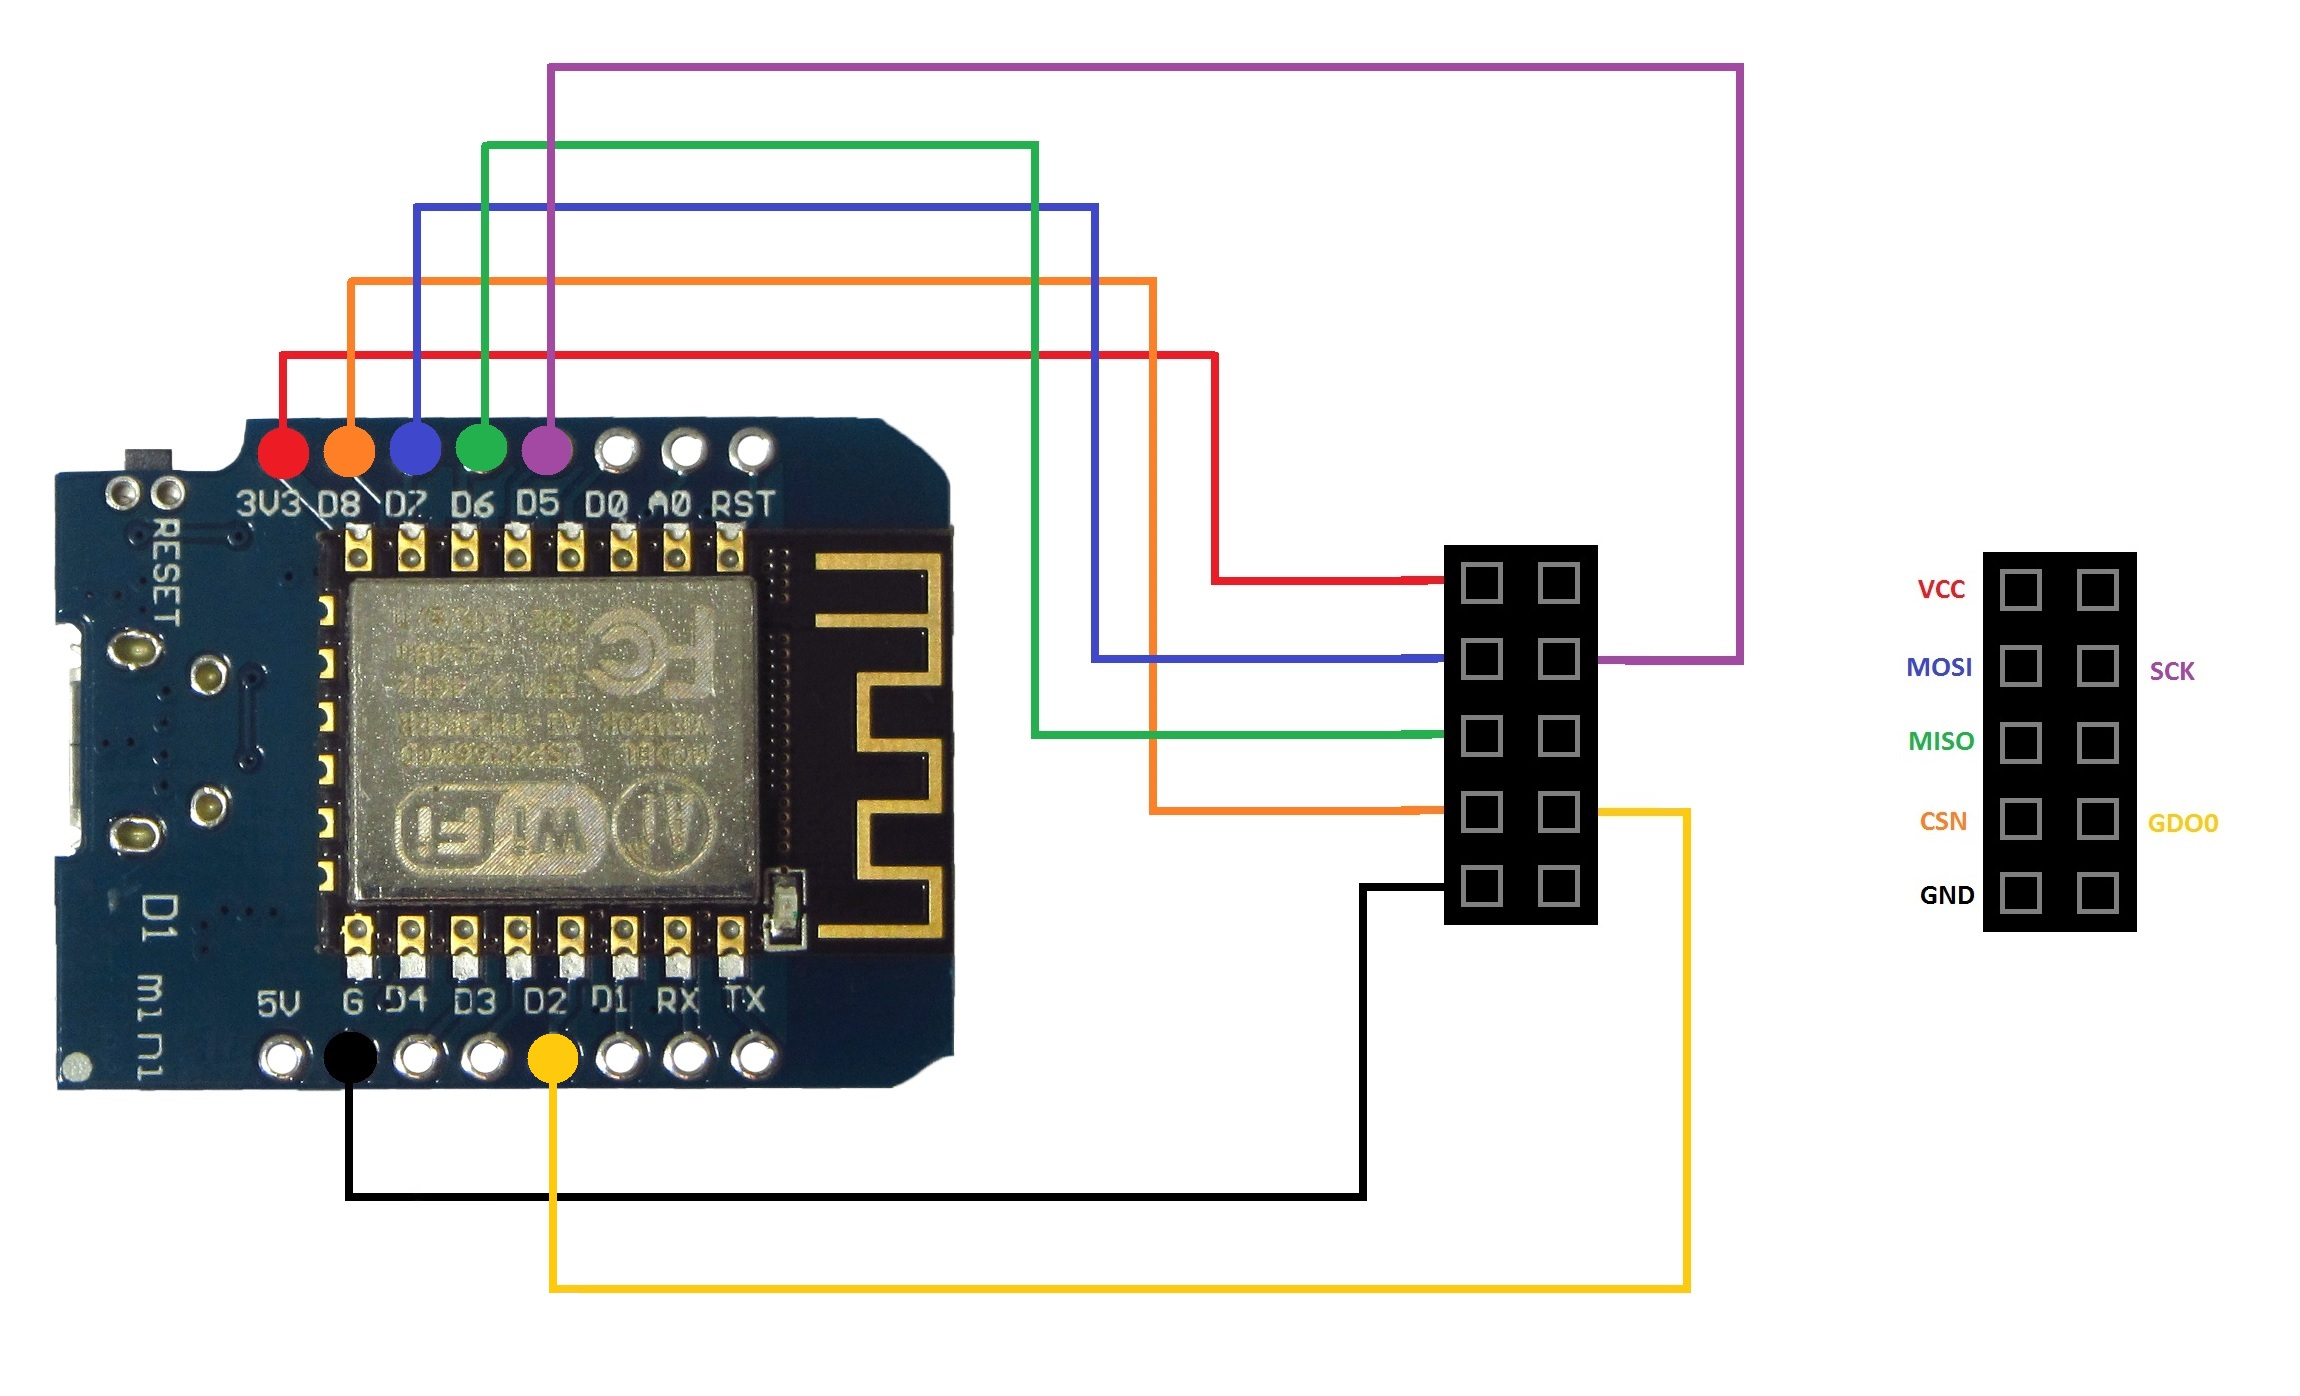
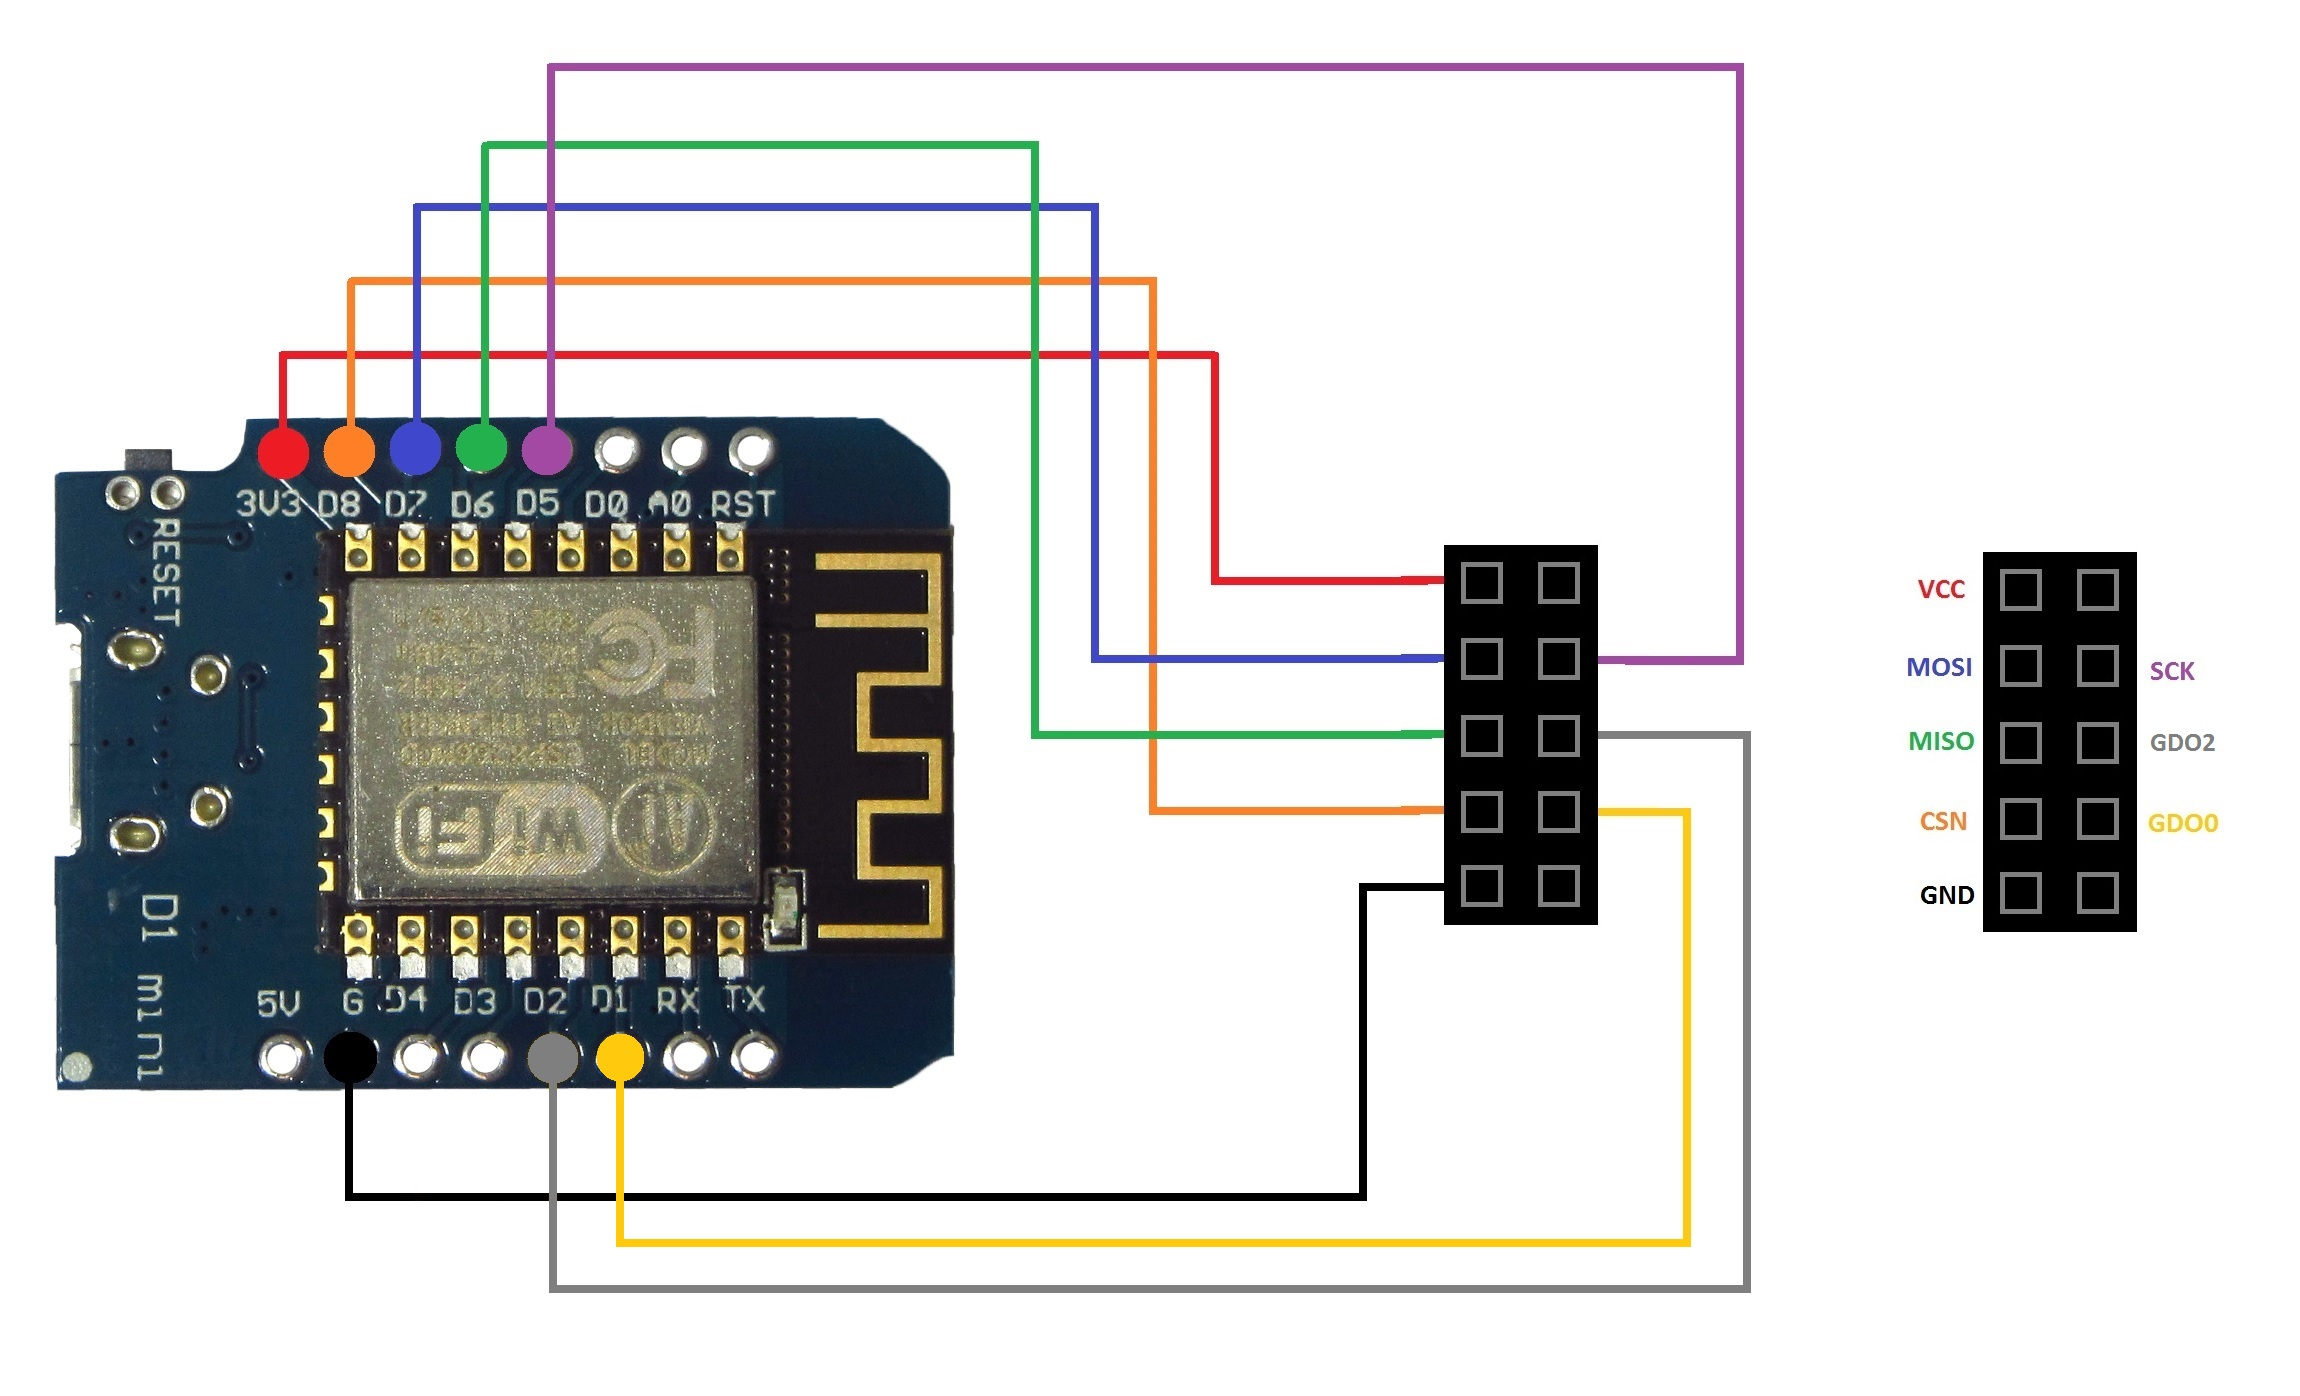
Add files via upload

Changed region(s): [[0.2161, 0.5236, 0.7717, 0.9549], [0.9261, 0.5236, 0.957, 0.5544]]

diff --git a/ELECHOUSE_CC1101_RCS_DRV.cpp b/ELECHOUSE_CC1101_RCS_DRV.cpp
@@ -80,6 +80,7 @@ void ELECHOUSE_CC1101::SpiInit(void)
 void ELECHOUSE_CC1101::GDO_Set (void)
 {
 	pinMode(GDO0, INPUT);
+	pinMode(GDO2, OUTPUT);
 }
 
 /****************************************************************
@@ -682,7 +683,15 @@ void ELECHOUSE_CC1101::RegConfigSettings(byte f)
 void ELECHOUSE_CC1101::SetTx(void)
 {
 #ifdef ESP8266
-  SpiStrobe(CC1101_STX);                  //start send
+  SpiStrobe(CC1101_SRES);
+  SpiInit();                    //spi initialization
+  GDO_Set();                    //GDO set
+  digitalWrite(SS_PIN, HIGH);
+  digitalWrite(SCK_PIN, HIGH);
+  digitalWrite(MOSI_PIN, LOW);
+  Reset();                      //CC1101 reset
+  RegConfigSettings(conf);      //CC1101 register config
+  SpiStrobe(CC1101_STX);        //start send
 #else
   if (TX == 1 && RX == 1) {
   SpiStrobe(CC1101_STX);                  //start send
@@ -690,15 +699,15 @@ void ELECHOUSE_CC1101::SetTx(void)
   TX = 0;
 }
   else if (TX == 1 && RX == 0){
-  SpiStrobe(CC1101_SRES);                  //reset cc1101
+  SpiStrobe(CC1101_SRES);
   SpiInit();                    //spi initialization
   GDO_Set();                    //GDO set
   digitalWrite(SS_PIN, HIGH);
   digitalWrite(SCK_PIN, HIGH);
   digitalWrite(MOSI_PIN, LOW);
-  Reset();                    //CC1101 reset
-  RegConfigSettings(conf);             //CC1101 register config
-  SpiStrobe(CC1101_STX);                  //start send
+  Reset();                      //CC1101 reset
+  RegConfigSettings(conf);      //CC1101 register config
+  SpiStrobe(CC1101_STX);        //start send
   TX = 0;
   RX = 1;
 }
@@ -713,23 +722,31 @@ void ELECHOUSE_CC1101::SetTx(void)
 void ELECHOUSE_CC1101::SetRx(void)
 {
  #ifdef ESP8266
-    SpiStrobe(CC1101_SRX);                  //start receive
- #else   
-  if (RX == 1 && TX == 1){
-  SpiStrobe(CC1101_SRX);                  //start receive
-  TX = 1;
-  RX = 0;
-}
-  else if (RX == 1 && TX == 0){
-  SpiStrobe(CC1101_SRES);                  //reset cc1101
+  SpiStrobe(CC1101_SRES);
   SpiInit();                    //spi initialization
   GDO_Set();                    //GDO set
   digitalWrite(SS_PIN, HIGH);
   digitalWrite(SCK_PIN, HIGH);
   digitalWrite(MOSI_PIN, LOW);
-  Reset();                    //CC1101 reset
-  RegConfigSettings(conf);             //CC1101 register config
-  SpiStrobe(CC1101_SRX);                  //start receive
+  Reset();                      //CC1101 reset
+  RegConfigSettings(conf);      //CC1101 register config
+  SpiStrobe(CC1101_SRX);        //start receive
+ #else   
+  if (RX == 1 && TX == 1){
+  SpiStrobe(CC1101_SRX);        //start receive
+  TX = 1;
+  RX = 0;
+}
+  else if (RX == 1 && TX == 0){
+  SpiStrobe(CC1101_SRES);
+  SpiInit();                    //spi initialization
+  GDO_Set();                    //GDO set
+  digitalWrite(SS_PIN, HIGH);
+  digitalWrite(SCK_PIN, HIGH);
+  digitalWrite(MOSI_PIN, LOW);
+  Reset();                      //CC1101 reset
+  RegConfigSettings(conf);      //CC1101 register config
+  SpiStrobe(CC1101_SRX);        //start receive
   TX = 1;
   RX = 0;
 }

diff --git a/ELECHOUSE_CC1101_RCS_DRV.h b/ELECHOUSE_CC1101_RCS_DRV.h
@@ -186,6 +186,7 @@ cc1101 Driver for RC Switch. Mod by Little Satan. With permission to modify and 
 
 //*************************************** pins **************************************************//
 #define GDO0	2
+#define GDO2  3
 //************************************* class **************************************************//
 class ELECHOUSE_CC1101
 {

diff --git a/README.md b/README.md
@@ -1,5 +1,20 @@
-# RCSwitch-CC1101-Driver-Lib_V1.5
+# RCSwitch-CC1101-Driver-Lib_V1.6
 
+
+---------------------------------------------
+Changelog: RCSwitch-CC1101-Driver-Lib_V1.6
+---------------------------------------------
+03.08.2018
+
+Esp8266			:Compatibility for all RC switch examples.
+
+Driver Library		:Add the GDO2 pin for Receive. Change GDO0 to send.
+
+Wiring changes		:Description in jpg's and txt's.
+
+Examples		:All examples have been adjusted.
+
+Examples		:Esp and Arduino are set automatically. 
 
 ---------------------------------------------
 Changelog: RCSwitch-CC1101-Driver-Lib_V1.5
@@ -30,7 +45,7 @@ Changelog: RCSwitch-CC1101-Driver-Lib_V1.4
 ---------------------------------------------
 26.07.2018
 
-Driver Library		:esp8266 Compatibility (Tested with Demos d1 mini).
+Driver Library		:esp8266 Compatibility (Tested with Wemos d1 mini).
 
 Driver Library		:Change default Receive filter bandwidth to 812khz (max).
 
